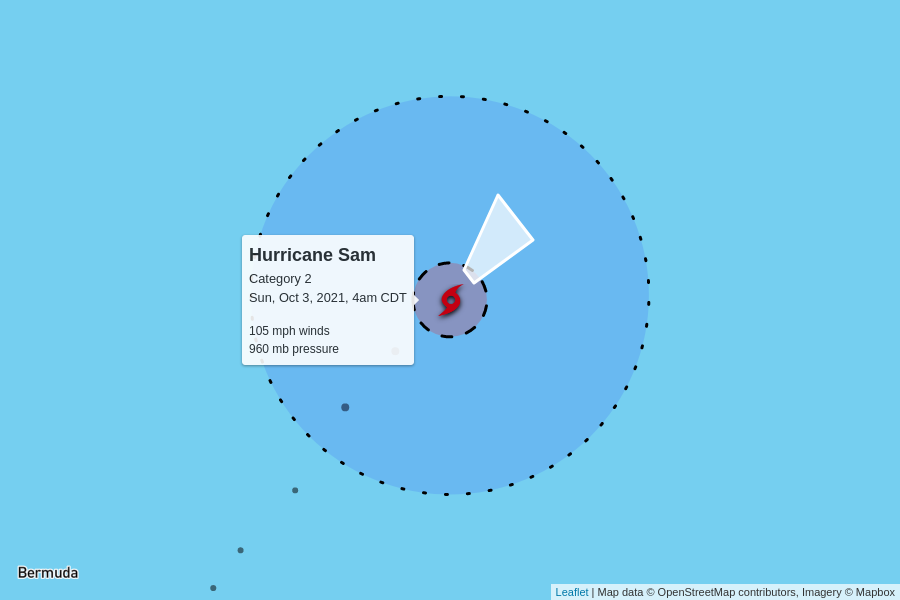
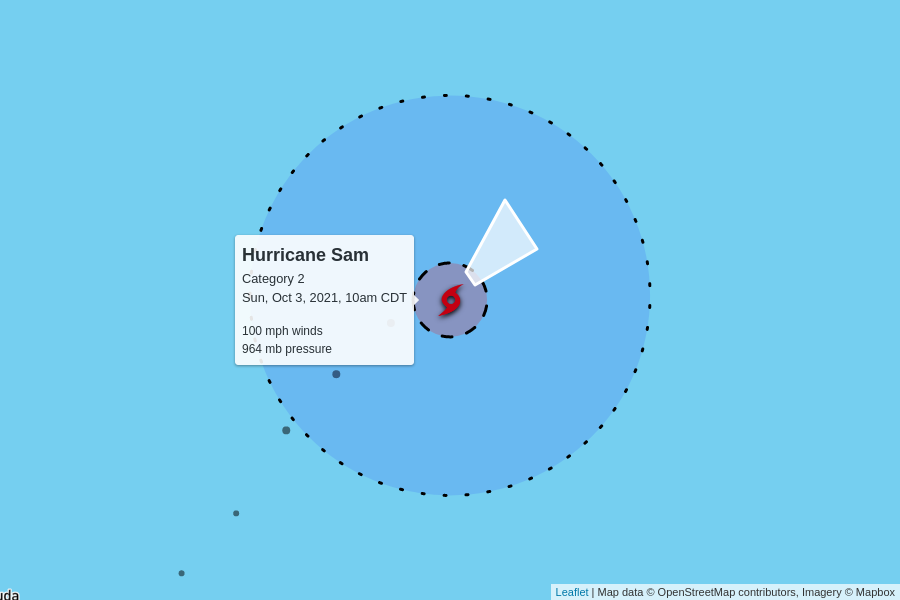
automatic update

diff --git a/docs/index.html b/docs/index.html
@@ -97,6 +97,50 @@
 
     <table>
       <tr>
+        <td colspan="6" class="storm category-2" >
+          <h2>
+            Hurricane Sam - Category 2
+            <p class="updated">last updated <span data-time>2021-10-03T15:00:00.000Z</span></p>
+          </h2>
+        </td>
+      </tr>
+      
+      <tr>
+        <th class="spacer"></th>
+        <th>wind speed</th>
+        <th>central pressure</th>
+        <th>movement</th>
+        <th>data (CSV)</th>
+        <th>National Hurricane Center</th>
+      </tr>
+      <tr>
+        <td class="spacer"></td>
+        <td>100 mph</td>
+        <td>964 mb</td>
+        <td>
+          16 mph to the northeast
+          <br/>
+          <span style="display: inline-block; font-size: 1.5em; transform: rotate(50deg);">↑</span>
+        </td>
+        <td><a href="https://raw.githubusercontent.com/mgwalker/atlantic-hurricanes/main/data/csv/AL182021.csv">AL182021.csv</a></td>
+        <td><a href="https://www.nhc.noaa.gov/archive/2021/SAM.shtml?">NHC advisories</a></td>
+      </tr>
+      <tr id="storm_AL182021" >
+        <td class="spacer">
+        <td colspan="5">
+          <figure>
+            <img src="AL182021.png">
+            <figcaption>
+              Map data &copy; <a href="https://www.openstreetmap.org/copyright">OpenStreetMap</a> contributors,
+              Imagery &copy; <a href="https://www.mapbox.com/">Mapbox</a> |
+              <a href="https://www.mapbox.com/map-feedback/" target="_blank">Improve this map</a>
+            </figcaption>
+          </figure>
+        </td>
+      </tr>
+      
+
+      <tr>
         <td colspan="6" class="storm category-0" >
           <h2>
             Tropical Depression Victor
@@ -130,50 +174,6 @@
         <td colspan="5">
           <figure>
             <img src="AL202021.png">
-            <figcaption>
-              Map data &copy; <a href="https://www.openstreetmap.org/copyright">OpenStreetMap</a> contributors,
-              Imagery &copy; <a href="https://www.mapbox.com/">Mapbox</a> |
-              <a href="https://www.mapbox.com/map-feedback/" target="_blank">Improve this map</a>
-            </figcaption>
-          </figure>
-        </td>
-      </tr>
-      
-
-      <tr>
-        <td colspan="6" class="storm category-2" >
-          <h2>
-            Hurricane Sam - Category 2
-            <p class="updated">last updated <span data-time>2021-10-03T09:00:00.000Z</span></p>
-          </h2>
-        </td>
-      </tr>
-      
-      <tr>
-        <th class="spacer"></th>
-        <th>wind speed</th>
-        <th>central pressure</th>
-        <th>movement</th>
-        <th>data (CSV)</th>
-        <th>National Hurricane Center</th>
-      </tr>
-      <tr>
-        <td class="spacer"></td>
-        <td>105 mph</td>
-        <td>960 mb</td>
-        <td>
-          17 mph to the northeast
-          <br/>
-          <span style="display: inline-block; font-size: 1.5em; transform: rotate(45deg);">↑</span>
-        </td>
-        <td><a href="https://raw.githubusercontent.com/mgwalker/atlantic-hurricanes/main/data/csv/AL182021.csv">AL182021.csv</a></td>
-        <td><a href="https://www.nhc.noaa.gov/archive/2021/SAM.shtml?">NHC advisories</a></td>
-      </tr>
-      <tr id="storm_AL182021" >
-        <td class="spacer">
-        <td colspan="5">
-          <figure>
-            <img src="AL182021.png">
             <figcaption>
               Map data &copy; <a href="https://www.openstreetmap.org/copyright">OpenStreetMap</a> contributors,
               Imagery &copy; <a href="https://www.mapbox.com/">Mapbox</a> |
